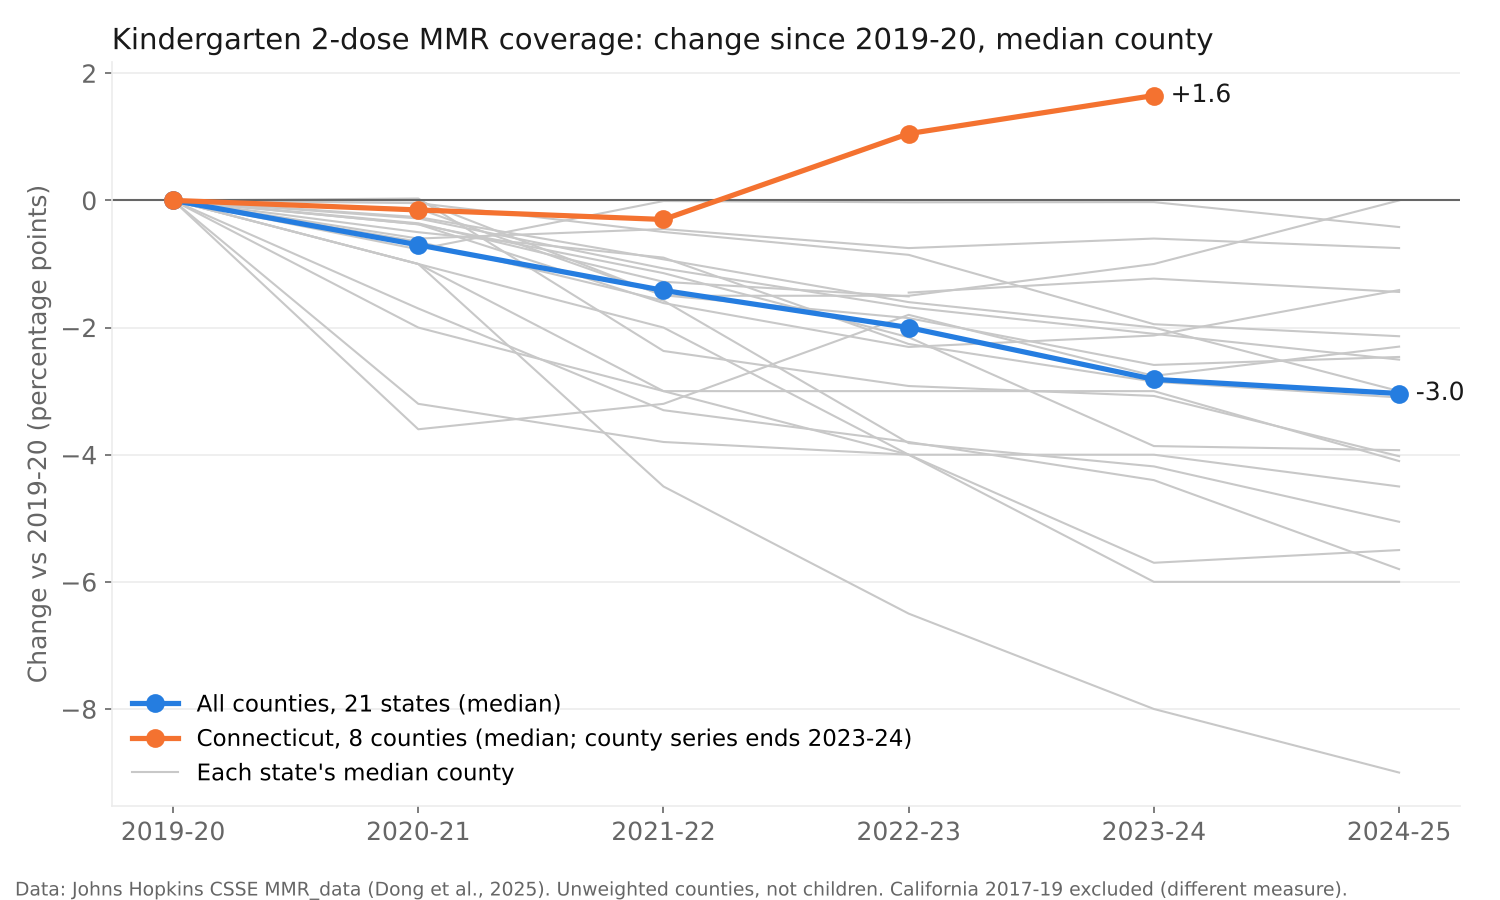
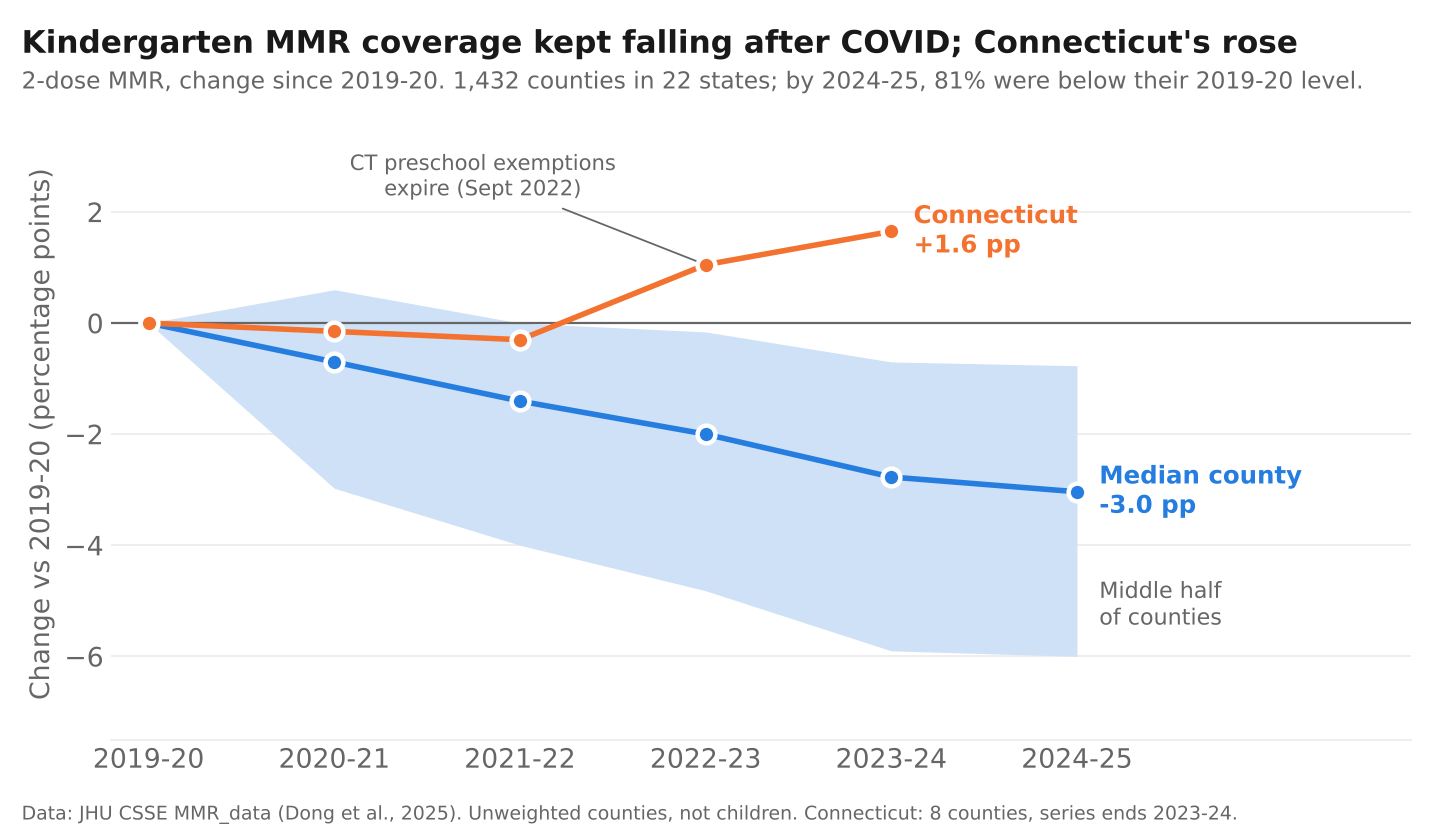
Redesign main figure: median with county band, direct labels; drop ranking table
Claude-Session: https://claude.ai/code/session_01SCTuvDf6AZaEmXuof5pLUa

diff --git a/make_figures.py b/make_figures.py
@@ -17,36 +17,42 @@ plt.rcParams.update({"font.size": 12, "axes.edgecolor": GRID, "axes.labelcolor":
 def med_path(df):
     return [np.round(df[y] - df["SY2019_20"], 6).median() for y in YRS]
 
-# ---- Figure 1: median change by year
-fig, ax = plt.subplots(figsize=(10, 6), dpi=150)
+# ---- Figure 1: median change by year, band = middle half of counties
+BAND = "#cfe1f7"
 x = np.arange(len(YRS))
-for st, g in a.groupby("State"):
-    if st in ("CT",):
-        continue
-    ax.plot(x, med_path(g), color=GRAY, lw=1, zorder=1)
-allp = med_path(a[a.State != "CT"])
+rest = a  # all analysed counties; CT has no 2024-25 value
+chg_y = pd.DataFrame({y: np.round(rest[y] - rest["SY2019_20"], 6) for y in YRS})
+med, q1, q3 = chg_y.median(), chg_y.quantile(.25), chg_y.quantile(.75)
 ct = med_path(a[a.State == "CT"])[:5]
-ax.plot(x, allp, color=BLUE, lw=2.5, marker="o", ms=8, zorder=3, label="All counties, 21 states (median)")
-ax.plot(x[:5], ct, color=ORANGE, lw=2.5, marker="o", ms=8, zorder=3,
-        label="Connecticut, 8 counties (median; county series ends 2023-24)")
+below = (rest.chg < 0).mean() * 100
+
+fig, ax = plt.subplots(figsize=(9, 5.2), dpi=160)
+ax.fill_between(x, q1, q3, color=BAND, lw=0, zorder=1)
 ax.axhline(0, color=TXT2, lw=1, zorder=2)
-ax.annotate(f"{allp[-1]:+.1f}", (x[-1], allp[-1]), xytext=(8, 0), textcoords="offset points",
-            va="center", color=TXT, fontsize=12)
-ax.annotate(f"{ct[-1]:+.1f}", (x[4], ct[-1]), xytext=(8, 0), textcoords="offset points",
-            va="center", color=TXT, fontsize=12)
-ax.plot([], [], color=GRAY, lw=1, label="Each state's median county")
+ax.plot(x, med, color=BLUE, lw=2.5, marker="o", ms=8, mec="white", mew=2, zorder=4)
+ax.plot(x[:5], ct, color=ORANGE, lw=2.5, marker="o", ms=8, mec="white", mew=2, zorder=4)
+# direct labels
+ax.text(x[-1] + 0.12, med.iloc[-1], f"Median county\n{med.iloc[-1]:+.1f} pp", color=BLUE, va="center", fontsize=11, weight="bold")
+ax.text(x[4] + 0.12, ct[-1], f"Connecticut\n{ct[-1]:+.1f} pp", color=ORANGE, va="center", fontsize=11, weight="bold")
+ax.text(x[-1] + 0.12, (q1.iloc[-1] + q3.iloc[-1]) / 2 - 1.7, "Middle half\nof counties", color=TXT2, va="center", fontsize=10)
+ax.annotate("CT preschool exemptions\nexpire (Sept 2022)", xy=(x[3], ct[3]), xytext=(x[2] - 0.2, 2.3),
+            fontsize=9.5, color=TXT2, ha="center", arrowprops=dict(arrowstyle="-", color=TXT2, lw=0.8))
 ax.set_xticks(x, LAB)
+ax.set_xlim(-0.2, len(YRS) - 0.2 + 1.0)
+ax.set_ylim(-7.5, 3.5)
 ax.set_ylabel("Change vs 2019-20 (percentage points)")
-ax.set_title("Kindergarten 2-dose MMR coverage: change since 2019-20, median county",
-             loc="left", color=TXT, fontsize=14)
 ax.grid(axis="y", color=GRID, lw=0.8)
 ax.set_axisbelow(True)
-for s in ["top", "right"]:
-    ax.spines[s].set_visible(False)
-ax.legend(frameon=False, loc="lower left", fontsize=11)
-fig.text(0.01, 0.005, "Data: Johns Hopkins CSSE MMR_data (Dong et al., 2025). Unweighted counties, not children. "
-         "California 2017-19 excluded (different measure).", fontsize=9, color=TXT2)
-fig.tight_layout(rect=(0, 0.03, 1, 1))
+for s_ in ["top", "right", "left"]:
+    ax.spines[s_].set_visible(False)
+ax.tick_params(length=0)
+fig.text(0.015, 0.965, "Kindergarten MMR coverage kept falling after COVID; Connecticut's rose",
+         fontsize=14, weight="bold", color=TXT, va="top")
+fig.text(0.015, 0.915, f"2-dose MMR, change since 2019-20. {len(rest):,} counties in 22 states; "
+         f"by 2024-25, {below:.0f}% were below their 2019-20 level.", fontsize=10.5, color=TXT2, va="top")
+fig.text(0.015, 0.015, "Data: JHU CSSE MMR_data (Dong et al., 2025). Unweighted counties, not children. "
+         "Connecticut: 8 counties, series ends 2023-24.", fontsize=8.5, color=TXT2)
+fig.tight_layout(rect=(0, 0.035, 1, 0.88))
 fig.savefig(out / "fig_year_path.png")
 
 # ---- Figure 2: state medians, dot plot
@@ -70,54 +76,4 @@ for s in ["top", "right", "left"]:
     ax.spines[s].set_visible(False)
 fig.tight_layout()
 fig.savefig(out / "fig_by_state.png")
-# ---- Figure 3: ranked table with sparklines (shared y-scale so amplitudes are comparable)
-SLATE = "#5f7a8a"
-rows = [("All counties", a)] + [(s_, g) for s_, g in a.groupby("State")]
-tab = []
-for name, g in rows:
-    lvl = [g[y].median() for y in YRS]
-    path_ = [np.round(g[y] - g["SY2019_20"], 6).median() if g[y].notna().any() else np.nan for y in YRS]
-    last_i = 4 if name == "CT" else 5
-    tab.append(dict(name=name, n=len(g), start=lvl[0], end=lvl[last_i], chg=g.chg.median(),
-                    path=path_[:last_i + 1], ct=name == "CT"))
-head, body = tab[0], sorted(tab[1:], key=lambda r: -r["chg"])
-tab = [head] + body
-lo = min(np.nanmin(r["path"]) for r in tab) - 0.5
-hi = max(np.nanmax(r["path"]) for r in tab) + 0.5
-
-nr = len(tab)
-fig = plt.figure(figsize=(9.5, 0.62 * nr + 1.9), dpi=150)
-top = 1 - 0.95 / fig.get_figheight()
-rowh = (top - 0.75 / fig.get_figheight()) / nr
-cols = dict(name=0.02, n=0.25, start=0.37, spark=(0.44, 0.30), end=0.83, chg=0.97)
-fig.text(0.02, 1 - 0.3 / fig.get_figheight(),
-         "Ranking counties' kindergarten MMR coverage by change since 2019-20, by state",
-         fontsize=14, color=TXT, weight="bold", va="center")
-hy = top + rowh * 0.35
-for k_, lab, ha in [("name", "State", "left"), ("n", "Counties", "right"), ("start", "2019-20", "right"),
-                    ("end", "2024-25", "right"), ("chg", "Change", "right")]:
-    fig.text(cols[k_], hy, lab, fontsize=11, color=TXT2, ha=ha, va="center")
-fig.text(cols["spark"][0] + cols["spark"][1] / 2, hy, "Median change by year (pp)", fontsize=11,
-         color=TXT2, ha="center", va="center")
-for i, r in enumerate(tab):
-    yc = top - rowh * (i + 0.5)
-    bold = "bold" if i == 0 else "normal"
-    fig.add_artist(plt.Line2D([0.02, 0.98], [top - rowh * (i + 1)] * 2, color=GRID, lw=0.8 if i else 1.5))
-    fig.text(cols["name"], yc, r["name"] + (" *" if r["ct"] else ""), fontsize=11, color=TXT, va="center", weight=bold)
-    fig.text(cols["n"], yc, f"{r['n']}", fontsize=10.5, color=TXT2, va="center", ha="right")
-    fig.text(cols["start"], yc, f"{r['start']:.1f}", fontsize=11, color=TXT, va="center", ha="right")
-    fig.text(cols["end"], yc, f"{r['end']:.1f}", fontsize=11, color=TXT, va="center", ha="right")
-    fig.text(cols["chg"], yc, (f"{r['chg']:+.1f}" if round(r['chg'], 1) != 0 else "0.0"), fontsize=11, color=TXT, va="center", ha="right", weight=bold)
-    ax = fig.add_axes([cols["spark"][0], yc - rowh * 0.46, cols["spark"][1], rowh * 0.92])
-    c = BLUE if i == 0 else (ORANGE if r["ct"] else SLATE)
-    xs = np.arange(len(r["path"]))
-    ax.axhline(0, color=TXT2, lw=0.6)
-    ax.plot(xs, r["path"], color=c, lw=2, marker="o", ms=2.5)
-    ax.set_xlim(-0.3, 5.3); ax.set_ylim(lo, hi); ax.axis("off")
-foot = ("2019-20 and 2024-25: median county coverage (%), 2 doses MMR, kindergarten. Change: median of the county changes,\n"
-        "so it can differ from the difference of the two medians. Lines share one scale "
-        f"({lo + 0.5:.0f} to {hi - 0.5:+.0f} pp); flat line = 2019-20; gaps = year not reported.\n"
-        "* Connecticut's county series ends 2023-24, so its last value is 2023-24.  Data: JHU CSSE MMR_data (Dong et al., 2025).")
-fig.text(0.02, 0.4 / fig.get_figheight(), foot, fontsize=8.5, color=TXT2, va="center", linespacing=1.5)
-fig.savefig(out / "fig_ranking_table.png")
-print("saved", out / "fig_year_path.png", out / "fig_by_state.png", out / "fig_ranking_table.png")
+print("saved", out / "fig_year_path.png", out / "fig_by_state.png")

diff --git a/README.md b/README.md
@@ -21,7 +21,7 @@
 
 ![שינוי חציוני לפי שנה](out/fig_year_path.png)
 
-![דירוג המדינות לפי השינוי, עם קו מגמה לכל מדינה](out/fig_ranking_table.png)
+![שינוי חציוני לפי מדינה](out/fig_by_state.png)
 
 ## הנתונים
 
